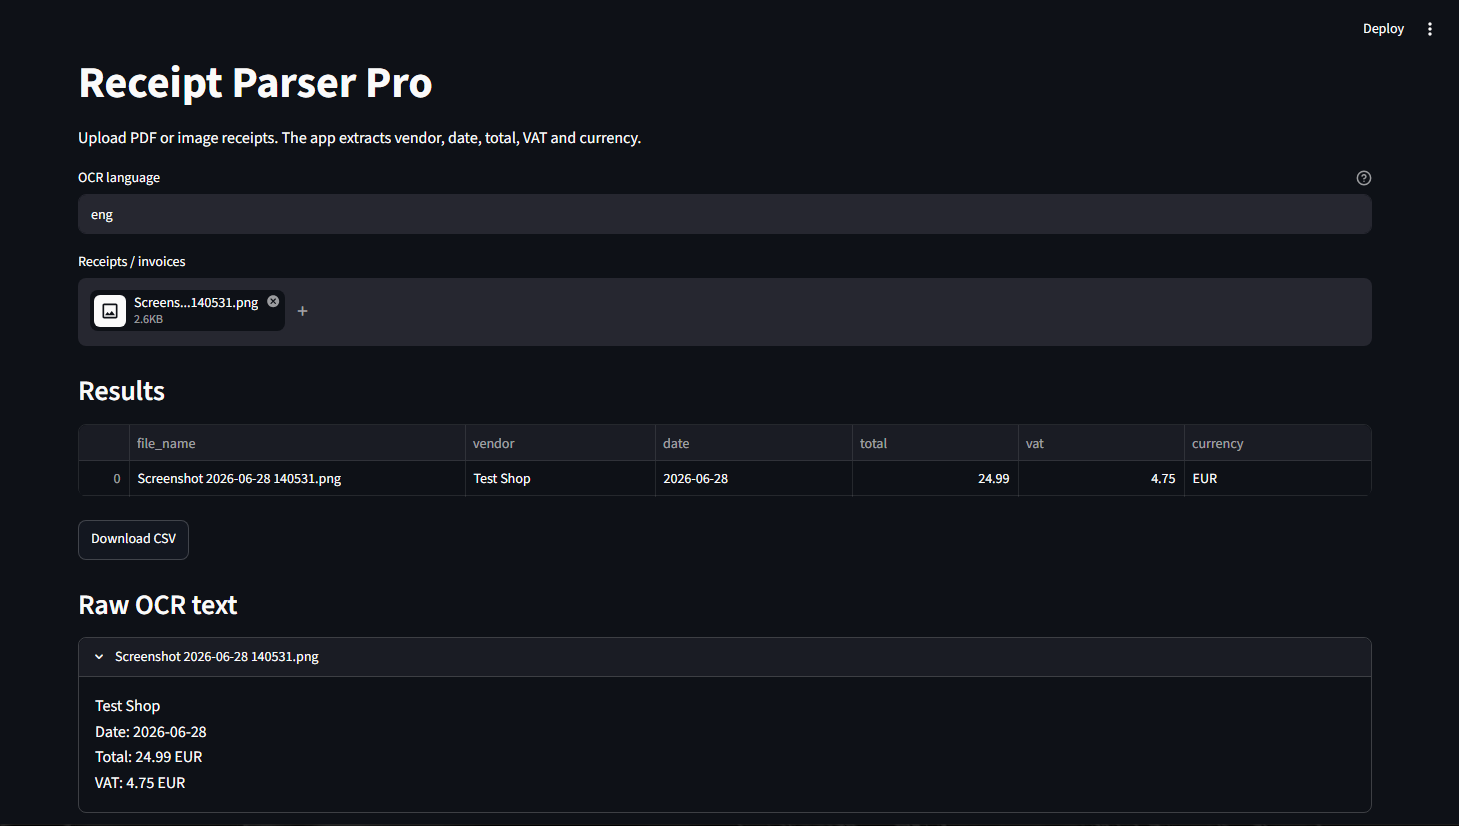
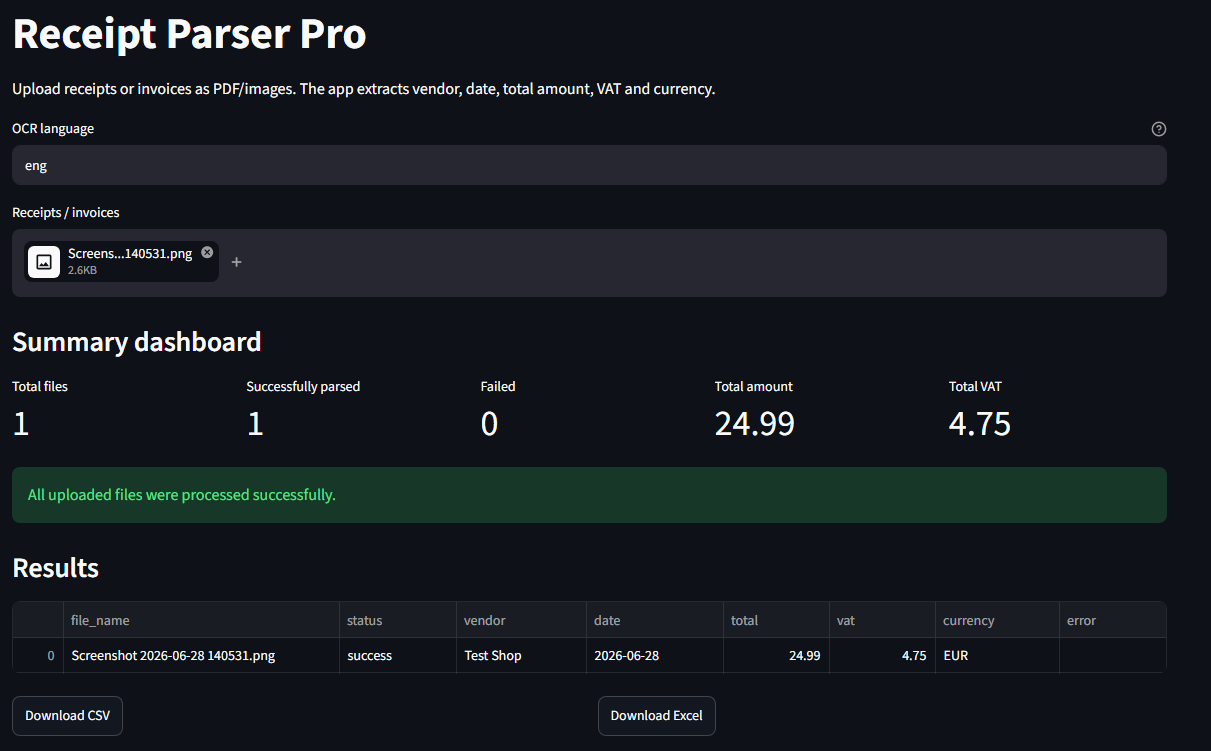
Improve README and add project screenshots

diff --git a/README.md b/README.md
@@ -1,146 +1,277 @@
 # Receipt Parser Pro
 
-Receipt Parser Pro extracts useful data from receipts and invoices and exports it to CSV or Excel.
+Receipt Parser Pro is a Python + Streamlit application for extracting structured data from receipts and invoices using OCR.
 
-It can process PDF files and image files such as PNG, JPG, TIFF, BMP and WEBP.
+The app allows users to upload PDF or image files, extract key financial information, review OCR results, check parsing errors, and export the parsed data to CSV or Excel.
+
+![Receipt Parser Pro Streamlit dashboard](assets/screenshot(2).png)
 
 ## Features
 
-- Extract vendor name
-- Extract date
-- Extract total amount
-- Extract VAT / tax amount
-- Detect common currencies: EUR, USD, GBP, RUB
-- Export to `.xlsx` or `.csv`
-- Command line interface
-- Optional Streamlit web interface
+- Streamlit web interface
+- Upload receipts and invoices as PDF or image files
+- OCR processing with Tesseract
+- Configurable OCR language field:
+  - `eng` for English documents
+  - `deu` for German documents
+  - `eng+deu` for mixed English/German documents
+- Extracts key receipt and invoice fields:
+  - Vendor
+  - Date
+  - Total amount
+  - VAT
+  - Currency
+- Summary dashboard:
+  - Total files
+  - Successfully parsed files
+  - Failed files
+  - Total amount
+  - Total VAT
+- Results table in the Streamlit interface
+- Raw OCR text preview
+- CSV export
+- Excel export with two worksheets:
+  - `Receipts`
+  - `Summary`
+- Error display for files that cannot be parsed correctly
 
-## Tech stack
+## Use cases
 
-- Python
-- pdfplumber
-- pytesseract
-- pandas
-- openpyxl
-- Streamlit
+Receipt Parser Pro can be useful for:
+
+- Freelancers who want to collect receipt data for bookkeeping
+- Small businesses that need a simple receipt and invoice overview
+- Students or developers learning OCR-based document processing
+- Python portfolio projects focused on automation and data extraction
+- Prototypes for accounting, tax preparation or document management tools
+
+## Streamlit dashboard
+
+The Streamlit interface shows the uploaded files, parsing summary, extracted results, export buttons, errors and raw OCR text.
+
+The dashboard includes:
+
+- Total uploaded files
+- Successfully parsed files
+- Failed files
+- Total amount
+- Total VAT
+- Results table
+- CSV and Excel download buttons
+
+![Receipt Parser Pro Streamlit dashboard](assets/screenshot.png)
+
+## Example input
+
+The app can parse a receipt like:
+
+```text
+Test Shop
+Date: 2026-06-28
+Total: 24.99 EUR
+VAT: 4.75 EUR
+```
+
+Expected structured output:
+
+| file_name | status | vendor | date | total | vat | currency |
+|---|---|---|---|---:|---:|---|
+| receipt.png | success | Test Shop | 2026-06-28 | 24.99 | 4.75 | EUR |
+
+## Excel export
+
+The Excel export creates a workbook with two worksheets:
+
+- `Receipts`
+- `Summary`
+
+This makes the export more useful for freelancers and small businesses because users get both detailed receipt data and a compact financial overview.
+
+### Receipts worksheet
+
+The `Receipts` worksheet contains the detailed parsed receipt and invoice data.
+
+It includes:
+
+- File name
+- Status
+- Vendor
+- Date
+- Total amount
+- VAT
+- Currency
+- Error information
+
+![Excel Receipts worksheet](assets/excel-receipts.png)
+
+### Summary worksheet
+
+The `Summary` worksheet contains a compact financial overview.
+
+Example:
+
+| Metric | Value |
+|---|---:|
+| Total files | 1 |
+| Successfully parsed | 1 |
+| Failed | 0 |
+| Total amount | 24.99 |
+| Total VAT | 4.75 |
+
+![Excel Summary worksheet](assets/excel-summary.png)
+
+## Requirements
+
+- Python 3.11 or newer
+- Tesseract OCR installed locally
+- Python packages from `requirements.txt`
 
 ## Installation
 
 Clone the repository:
 
 ```bash
-git clone https://github.com/YOUR_USERNAME/receipt-parser-pro.git
+git clone https://github.com/maksimzvonov51-dotcom/receipt-parser-pro.git
 cd receipt-parser-pro
 ```
 
-Create a virtual environment:
+Create and activate a virtual environment on Windows PowerShell:
 
-```bash
+```powershell
 python -m venv .venv
+.\.venv\Scripts\Activate.ps1
 ```
 
-Activate it on Windows PowerShell:
+Install dependencies:
 
-```bash
-.venv\Scripts\Activate.ps1
-```
-
-Activate it on macOS/Linux:
-
-```bash
-source .venv/bin/activate
-```
-
-Install Python dependencies:
-
-```bash
+```powershell
 pip install -r requirements.txt
 ```
 
-## Install Tesseract OCR
+## Tesseract OCR setup on Windows
 
-This project uses Tesseract OCR for images and scanned PDFs.
+Install Tesseract OCR for Windows.
 
-Windows:
+If Windows does not detect `tesseract` through PATH, configure the direct path in the code, for example:
 
-Install Tesseract from the official UB Mannheim Windows builds, then add the Tesseract folder to your PATH.
-
-macOS:
-
-```bash
-brew install tesseract
+```text
+C:\Program Files\Tesseract-OCR\tesseract.exe
 ```
 
-Ubuntu/Debian:
+The current project was tested with Tesseract OCR installed on Windows.
 
-```bash
-sudo apt update
-sudo apt install tesseract-ocr tesseract-ocr-eng tesseract-ocr-deu
+## Run the app
+
+From the project folder:
+
+```powershell
+python -m streamlit run app.py
 ```
 
-## Usage: command line
+If the virtual environment is not activated, you can run the app directly with:
 
-Process one file:
-
-```bash
-python -m receipt_parser.cli examples/receipt.pdf -o output/receipts.xlsx
+```powershell
+.\.venv\Scripts\python.exe -m streamlit run app.py
 ```
 
-Process a full folder:
+## OCR language
 
-```bash
-python -m receipt_parser.cli ./my_receipts -o output/receipts.csv
+Use the OCR language field in the Streamlit app.
+
+Examples:
+
+```text
+eng
+deu
+eng+deu
 ```
 
-Use a specific OCR language:
+For English test receipts, use:
 
-```bash
-python -m receipt_parser.cli ./my_receipts -o output/receipts.xlsx --ocr-lang eng+deu
+```text
+eng
 ```
 
-## Usage: web interface
+For German receipts or invoices, use:
 
-```bash
-streamlit run app.py
+```text
+deu
 ```
 
-Then open the local Streamlit URL shown in the terminal.
+For mixed English/German documents, use:
 
-## Output columns
+```text
+eng+deu
+```
 
-| Column | Meaning |
-|---|---|
-| file_name | Source file name |
-| vendor | Detected vendor / shop / company |
-| date | Detected receipt date |
-| total | Detected total amount |
-| vat | Detected VAT / tax amount |
-| currency | Detected currency |
-| raw_text | Extracted OCR/text layer content |
+The required Tesseract language packs must be installed locally.
 
-## Limitations
+## Project structure
 
-This is a heuristic parser, not a certified accounting system. OCR quality depends on image quality, language packs and receipt layout. Always verify extracted values before using them for accounting or tax filings.
+```text
+receipt-parser-pro/
+├── app.py
+├── README.md
+├── requirements.txt
+├── LICENSE
+├── .gitignore
+├── assets/
+│   ├── screenshot.png
+│   ├── excel-receipts.png
+│   └── excel-summary.png
+├── receipt_parser/
+│   ├── __init__.py
+│   ├── cli.py
+│   ├── exporter.py
+│   ├── models.py
+│   ├── parser.py
+│   └── text_extractor.py
+└── tests/
+    └── test_parser.py
+```
 
-## Monetization idea
+## Releases
 
-Free version:
+### v0.1.0
 
-- Manual upload
-- CSV export
-- Basic parsing
+Initial working version.
 
-Paid version:
+### v0.2.0
 
-- Batch processing
-- Excel export
-- Custom templates
-- Better vendor detection
-- Cloud storage integration
-- Accounting software export
+Added Excel export.
+
+### v0.3.0
+
+Added Summary dashboard and improved error display.
+
+### v0.4.0
+
+Added Excel Summary sheet with financial overview.
+
+### v0.5.0
+
+Improved README and project presentation for professional GitHub portfolio use.
+
+## Roadmap
+
+Possible next improvements:
+
+- Better receipt and invoice parsing rules
+- Support for more date and currency formats
+- Improved German invoice recognition
+- Multiple VAT rates
+- Drag-and-drop batch processing workflow
+- Export settings
+- Docker support
+- Streamlit Cloud deployment
+- More automated tests
+
+## Disclaimer
+
+Receipt Parser Pro is a prototype and portfolio project. OCR and parsing results may be incomplete or incorrect depending on image quality, document layout and OCR language settings.
+
+Always verify extracted financial data before using it for accounting, tax or business purposes.
 
 ## License
 
-MIT
-## Screenshot
-![Receipt Parser Pro screenshot](assets/screenshot.png)
+This project is licensed under the MIT License.